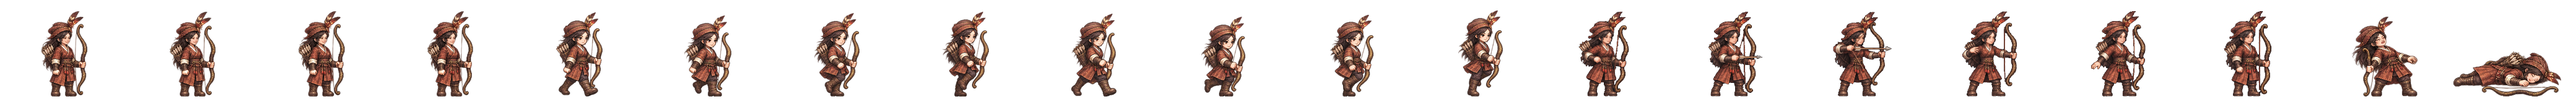
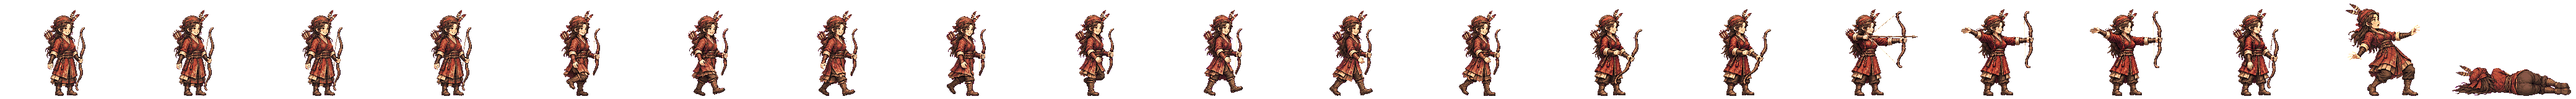
매화 전투 띠를 뼈대 방식으로 새로 (형 11-23: 걷기와 활 쏘기 그림체가 다르다 · 활을 제대로 쥐지 않는다): 활 쥐고 걷기 8(통통 튀는 결)·활 쏘기(메김·당김·놓음·내림)·맞음·뒤돌아 누운 쓰러짐 20칸 · 서기는 한 장
Claude-Session: https://claude.ai/code/session_01TRiuN7s6aDfSnaHxrkctmU

diff --git a/tools/sprite-kit/strip-build.py b/tools/sprite-kit/strip-build.py
@@ -49,10 +49,26 @@ def main(name, atk, out):
     frames += [cell('down', 1), cell('down', 4)]
     # 덧칸 (형 11-23: 쓰러짐을 KO 처럼 오래·느리게·당겨서 · 서기에 개성 동작): 20·21 = 쓰러지는 가운데 두 칸(주저앉음 · 손 짚고 눕는 중) · 22~25 = 개성 동작 네 칸
     #   넷째 값에 ext 를 주면 붙인다. 게임이 20칸 넘는 띠를 읽게 된 뒤에만 넣는다.
-    if len(sys.argv) > 4 and sys.argv[4] == 'ext':
+    if 'ext' in sys.argv[4:]:
         frames += [cell('down', 2), cell('down', 3)]
         if os.path.exists(f'{PXD}/{name}-quirk-1.png'):
             frames += [feet_fixed(cell('quirk', i)) for i in (1, 2, 3, 4)]
+    # align: 서기·공격 칸의 머리 가로 자리를 걷기 칸에 맞춘다 (활처럼 한쪽으로 뻗은 물건을 든 장수는 테두리 가운데와 몸 가운데가 다르다)
+    if 'align' in sys.argv[4:]:
+        def head_x(im):
+            a = np.asarray(im)[..., 3] > 0
+            ys = np.nonzero(a.any(1))[0]
+            return float(np.nonzero(a[ys.min() + 10:ys.min() + 40])[1].mean())
+        def shift(im, d):
+            o = Image.new('RGBA', im.size, (0, 0, 0, 0))
+            o.alpha_composite(im.crop((max(0, -d), 0, im.size[0] - max(0, d), im.size[1])), (max(0, d), 0))
+            return o
+        hw = float(np.median([head_x(f) for f in frames[4:12]]))
+        d0 = int(round(hw - head_x(frames[0])))
+        d1 = int(round(hw - head_x(frames[12])))
+        frames[0:4] = [shift(f, d0) for f in frames[0:4]]
+        frames[12:18] = [shift(f, d1) for f in frames[12:18]]
+        print('머리 맞춤: 서기', d0, '공격', d1)
     strip = Image.new('RGBA', (CW * len(frames), CH), (0, 0, 0, 0))
     for i, f in enumerate(frames): strip.alpha_composite(f, (i * CW, 0))
     strip.save(out); print(out, strip.size)

diff --git a/tools/sprite-kit/bake-scene.py b/tools/sprite-kit/bake-scene.py
@@ -170,7 +170,7 @@ def motion8(path, name):
             print(f'{tag} 칸{k + 1} 게임 키 {g2.size[1]} 폭 {g2.size[0]}')
 
 
-def fall(path, name, scene, tag='down'):
+def fall(path, name, scene, tag='down', k4=1.0):
     """쓰러짐 장면(style-scene.py fall 배치) 굽기 -> <이름>-down-1..4. 구역 안의 덩어리를 전부 모은다(떨어진 두건·머리카락 조각도 버리지 않는다).
     누운 칸은 옆 칸이 없어 잘릴 수 없다. 구역 금에 8px 안으로 닿으면 알린다.
       py -3 -I tools/sprite-kit/bake-scene.py fall <받은 장면.png> <이름> <보낸 장면.png>"""
@@ -215,7 +215,7 @@ def fall(path, name, scene, tag='down'):
         gap = min(bx0 - x0, x1 - bx1, by0 - y0)
         whole = full[by0:by1, bx0:bx1].copy()
         whole[..., 3] = np.where(m[by0:by1, bx0:bx1], whole[..., 3], 0)
-        g = game(Image.fromarray(whole), scale)
+        g = game(Image.fromarray(whole), scale * (k4 if n == 3 else 1.0))   # k4: 누운 칸만의 배율(견본의 누운 사람이 작게 들어갔을 때)
         gm = np.asarray(g)[..., 3] > 0
         gy, gx = np.nonzero(gm)
         g2 = g.crop((gx.min(), gy.min(), gx.max() + 1, gy.max() + 1))
@@ -231,7 +231,7 @@ def fall(path, name, scene, tag='down'):
 
 if __name__ == '__main__':
     if sys.argv[1] == 'fall':
-        fall(sys.argv[2], sys.argv[3], sys.argv[4])
+        fall(sys.argv[2], sys.argv[3], sys.argv[4], k4=float(sys.argv[5]) if len(sys.argv) > 5 else 1.0)
         sys.exit()
     if sys.argv[1] == 'motion8':
         motion8(sys.argv[2], sys.argv[3])
